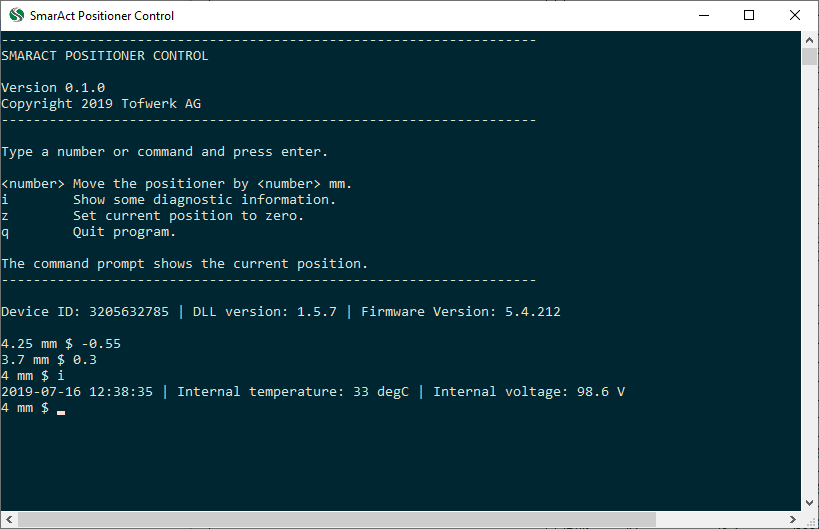
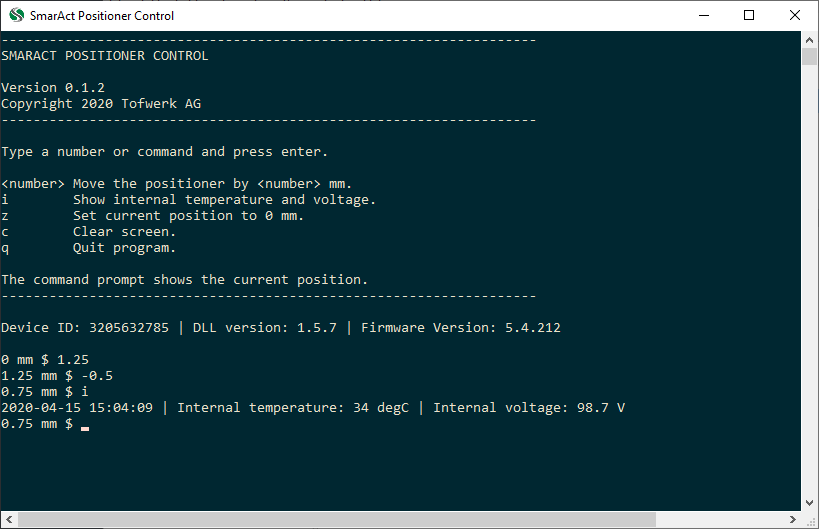
Added clear screen command.

diff --git a/main.cpp b/main.cpp
@@ -14,6 +14,7 @@
 #include <windows.h>
 #include <SCU3DControl.h>
 #include "functions.h"
+#include <stdlib.h>
 
 using namespace std;
 
@@ -92,18 +93,7 @@ int main(int argc, char* argv[]) {
     SetConsoleTitle("SmarAct Positioner Control");
     SetWindowSize(100, 30);
     
-    printf("-------------------------------------------------------------------\n");
-    printf("SMARACT POSITIONER CONTROL \n\n");
-    printf("Version 0.1.1 \n");
-    printf("Copyright 2019 Tofwerk AG \n");
-    printf("-------------------------------------------------------------------\n\n");
-    printf("Type a number or command and press enter.\n\n");
-    printf("<number> Move the positioner by <number> mm.\n");
-    printf("i        Show some diagnostic information.\n");
-    printf("z        Set current position to zero.\n");
-    printf("q        Quit program.\n\n");
-    printf("The command prompt shows the current position.\n");
-    printf("-------------------------------------------------------------------\n\n");
+    PrintHeader();
     
     // Open the control unit with USB interface in synchronous communication mode
     SA_STATUS st = SA_InitDevices(SA_SYNCHRONOUS_COMMUNICATION);
@@ -149,6 +139,16 @@ int main(int argc, char* argv[]) {
         cout << CurrentDateTime() << " | ";
         PrintSystemProperty();
         
+        cout << position << " mm $ ";
+      }
+      
+      // Clear screen
+      if (command == "c") {
+        system("cls");
+        PrintHeader();
+        PrintDeviceInfo();
+        printf("\n\n");
+        // command prompt
         cout << position << " mm $ ";
       }
       

diff --git a/functions.cpp b/functions.cpp
@@ -37,9 +37,9 @@ std::string CurrentDateTime() {
 void ShowCommandlineUsage(string name) {
   cout << "Usage:\n" << name << " <number or command>\n" 
        << "<number> Move the positioner by <number> mm.\n"
-       << "i        Show some positioner diagnostic information.\n"
+       << "i        Show internal temperature and voltage.\n"
        << "h        Show this help message.\n"
-       << "z        Set current position to zero.\n";
+       << "z        Set current position to 0 mm.\n";
 }
 
 // Print the error status if an error occurs.
@@ -154,4 +154,21 @@ void PrintSystemProperty() {
   SA_GetSystemProperty_S(device_index, SA_INTERNAL_VOLTAGE_PROP, &value);
   double volt = static_cast<double>(value)/10.0;
   printf("Internal voltage: %.1f V\n", volt);
+}
+
+// Print header
+void PrintHeader() {
+  cout << "-------------------------------------------------------------------\n"
+       << "SMARACT POSITIONER CONTROL \n\n"
+       << "Version 0.1.2 \n"
+       << "Copyright 2020 Tofwerk AG \n"
+       << "-------------------------------------------------------------------\n\n"
+       << "Type a number or command and press enter.\n\n"
+       << "<number> Move the positioner by <number> mm.\n"
+       << "i        Show internal temperature and voltage.\n"
+       << "z        Set current position to 0 mm.\n"
+       << "c        Clear screen.\n"
+       << "q        Quit program.\n\n"
+       << "The command prompt shows the current position.\n"
+       << "-------------------------------------------------------------------\n\n";
 }

diff --git a/functions.h b/functions.h
@@ -33,5 +33,7 @@ void PrintDeviceInfo();
 // Print internal temperature and voltage
 void PrintSystemProperty();
 
+// Print header
+void PrintHeader();
 
 #endif  // FUNCTIONS_H

diff --git a/README.md b/README.md
@@ -4,8 +4,8 @@ Simple console program for controlling a SmarAct linear positioning stage
 without position sensor. The positioning stage is connected to a Control 
 Unit (CU) with USB interface.
 
-Version 0.1.1  
-Copyright 2019 Tofwerk AG
+Version 0.1.2  
+Copyright 2020 Tofwerk AG
 
 ## smaract.exe
 
@@ -21,6 +21,6 @@ smaract <number or command>
 ```
 
 `<number>`  Move the positioner by `<number>` mm.  
-`i`               Show some positioner diagnostic information.  
+`i`               Show internal temperature and voltage.  
 `h`               Show this help message.  
-`z`               Set current position to zero.                      
+`z`               Set current position to 0 mm.                      
